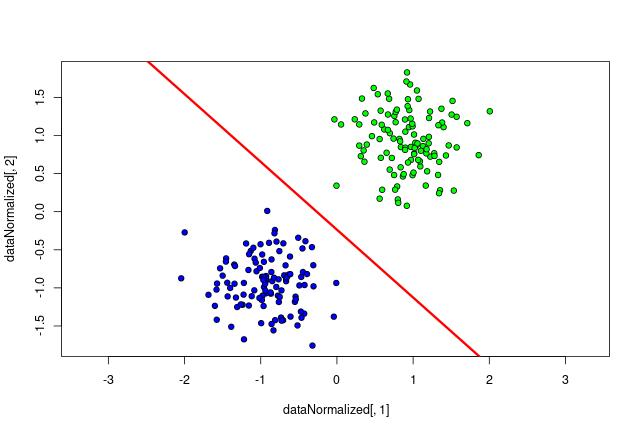
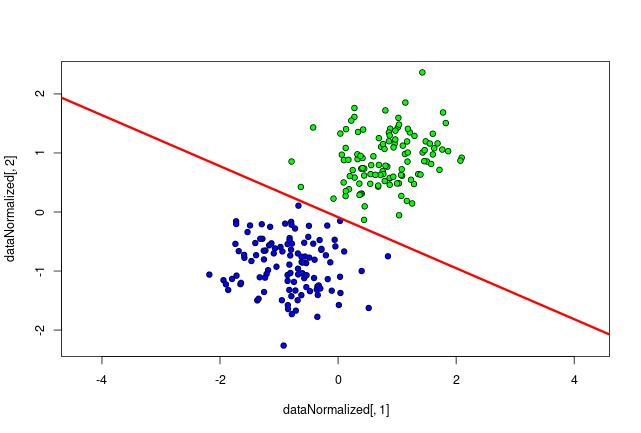
Initial commit

diff --git a/README.md b/README.md
@@ -575,4 +575,78 @@ sgAdaline <- function(xl, eta = 1, lambda = 1 / 6)
 }
 ```
 
+![alt text](https://github.com/nikitkuzi/ML1/blob/master/adaline/img/adaline.jpeg?raw=true)
 
+## Правило Хэбба
+
+Персептрон обучают по правилу Хебба. Предъявляем на вход один объект. Если выходной сигнал персептрона совпадает с правильным ответом, то никаких действий предпринимать не надо. 
+В случае ошибки необходимо обучить персептрон правильно решать данный пример.
+Ошибки могут быть двух типов.
+
+Первый тип ошибки: на выходе персептрона _a(xi)_ = 0, правильный ответ _yi_=1.
+
+Для того, чтобы персептрон выдавал правильный ответ необходимо, чтобы скалярное произведение стало больше.
+Поскольку переменные принимают значения 0 или 1, увеличение суммы может быть достигнуто за счет увеличения весов. 
+Однако нет смысла увеличивать веса при переменных , которые равны нулю. 
+Увеличиваем веса только при тех, которые равны 1. Для закрепления единичных сигналов с _ω_, следует провести ту же процедуру и на всех остальных слоях.
+
+В этом и заключается первое правило Хэбба.
+
+Второй тип ошибки: _a(xi)_ =1, _yi_=0.
+
+Для уменьшения скалярного произведения в правой части, необходимо уменьшить веса связей при тех переменных , которые равны 1. Необходимо также провести эту процедуру для всех активных нейронов предыдущих слоев.
+
+Выберем функцию потерь:
+```R
+lossFunctionHeb <- function(x)
+{
+  return(if (x < 1) -x else 0)
+}
+```
+Получаем классификатор Хэбба:
+```R
+sgHeb <- function(xl, eta = 1, lambda = 1 / 6)
+{
+  l <- dim(xl)[1]
+  n <- dim(xl)[2] - 1
+  w <- c(1 / 2, 1 / 2, 1 / 2)
+  iterCount <- 0
+  Q <- 0
+  for (i in 1:l) {
+    wx <- sum(w * xl[i, 1:n])
+    margin <- wx * xl[i, n + 1]
+    Q <- Q + lossFunctionAdaline(margin)
+  }
+  repeat
+  {
+    margins <- array(dim = l)
+    for (i in 1:l)
+    {
+      xi <- xl[i, 1:n]
+      yi <- xl[i, n + 1]
+      margins[i] <- crossprod(w, xi) * yi
+    }
+    errorIndexes <- which(margins <= 0)
+    if (length(errorIndexes) > 0)
+    {
+      i <- sample(1:l, 1)
+      iterCount <- iterCount + 1
+      xi <- xl[i, 1:n]
+      yi <- xl[i, n + 1]
+      wx <- crossprod(w, xi)
+      margin <- wx * yi
+      ex <- lossFunctionAdaline(margin)
+      w <- w - eta * (wx - yi) * xi
+      Qprev <- Q
+      Q <- (1 - lambda) * Q + lambda * ex
+    } else
+    {
+      break
+    }
+  }
+  return(w)
+}
+```
+
+Сравним его с Адаптивным линейным элементом:
+![alt text](https://github.com/nikitkuzi/ML1/blob/master/adaline/img/adaline_heb.jpeg?raw=true)
